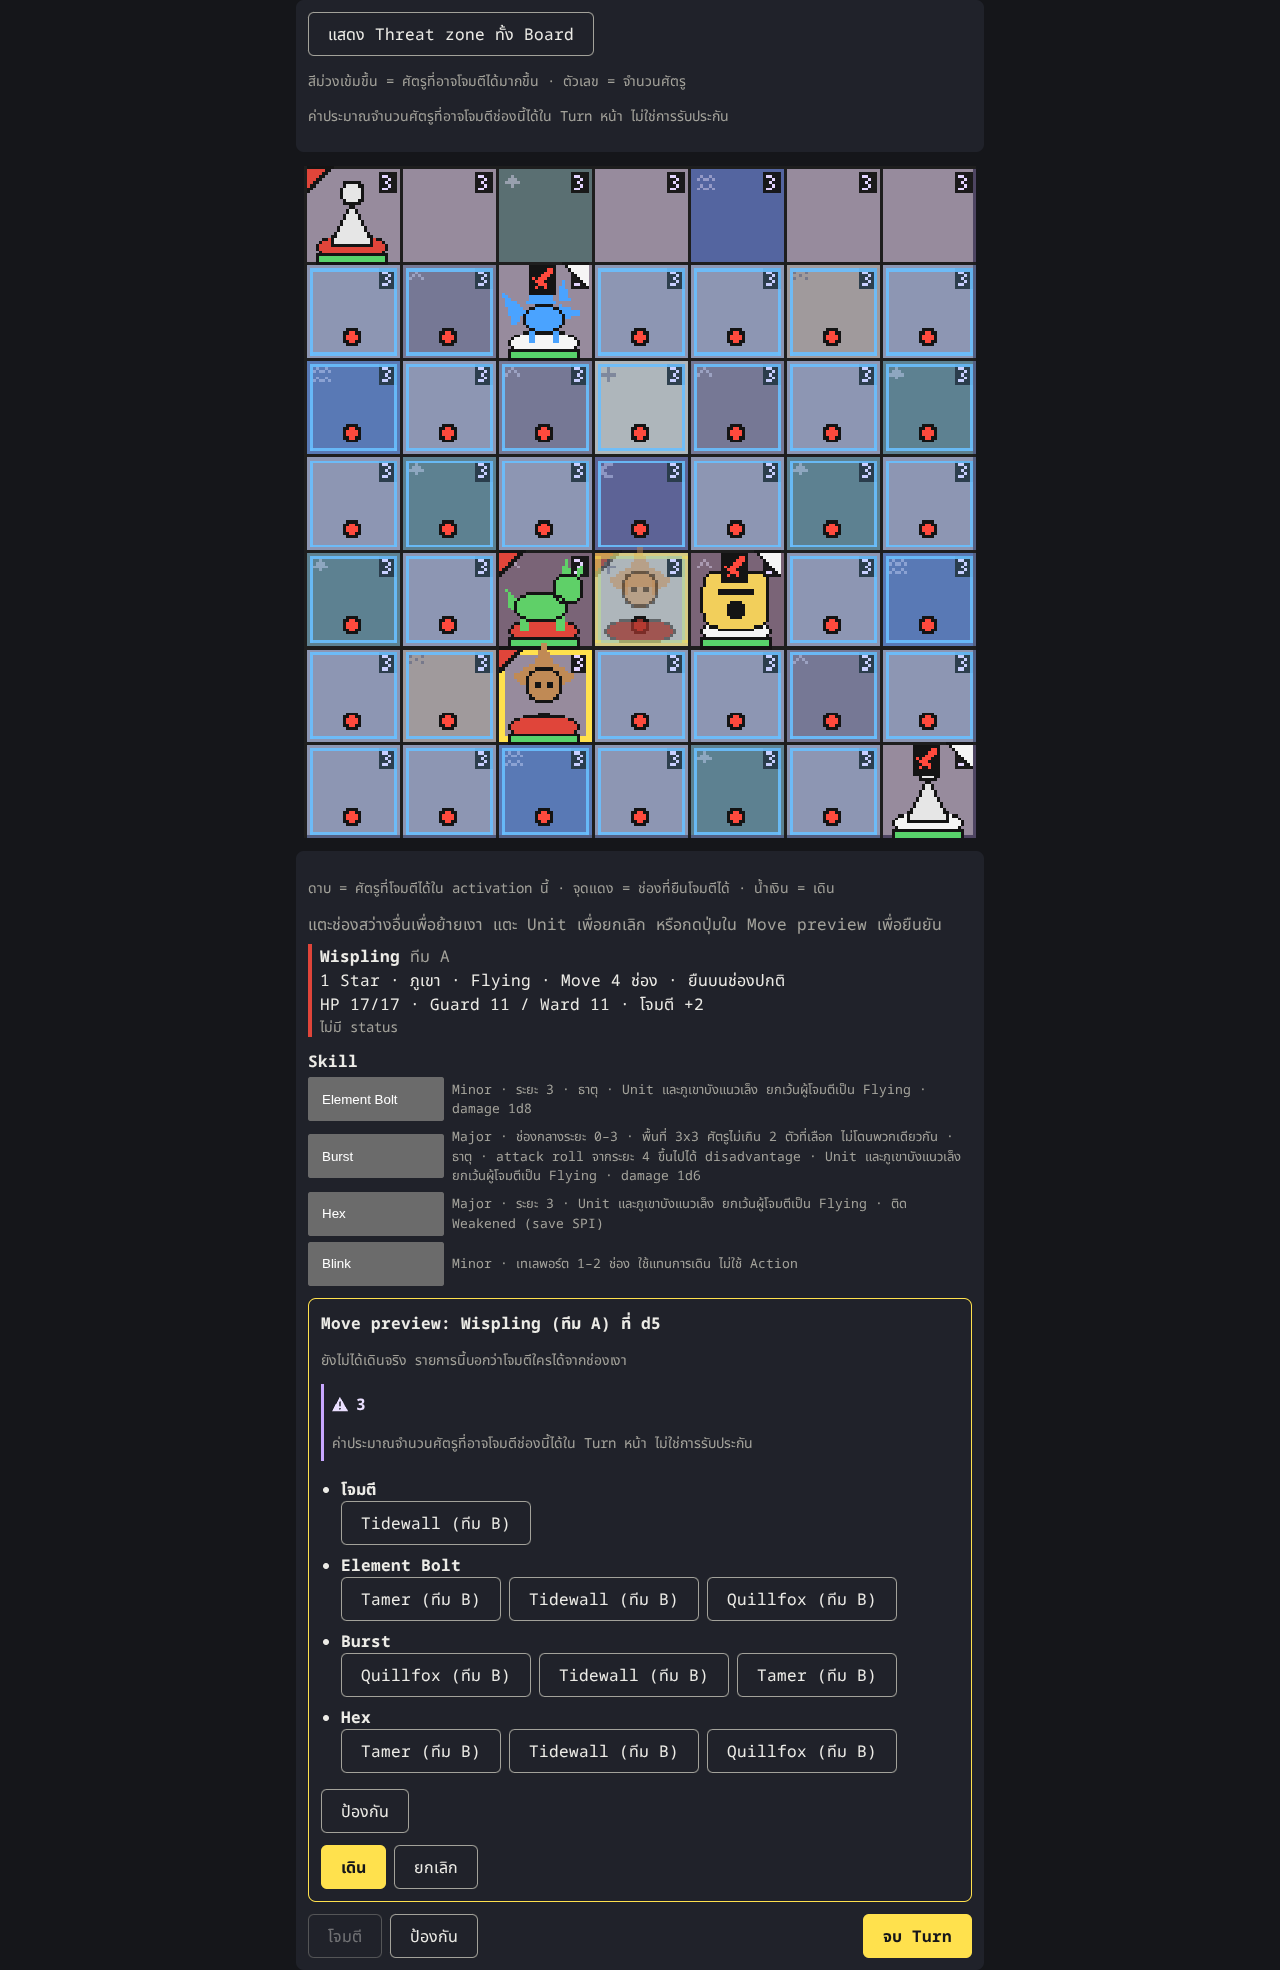
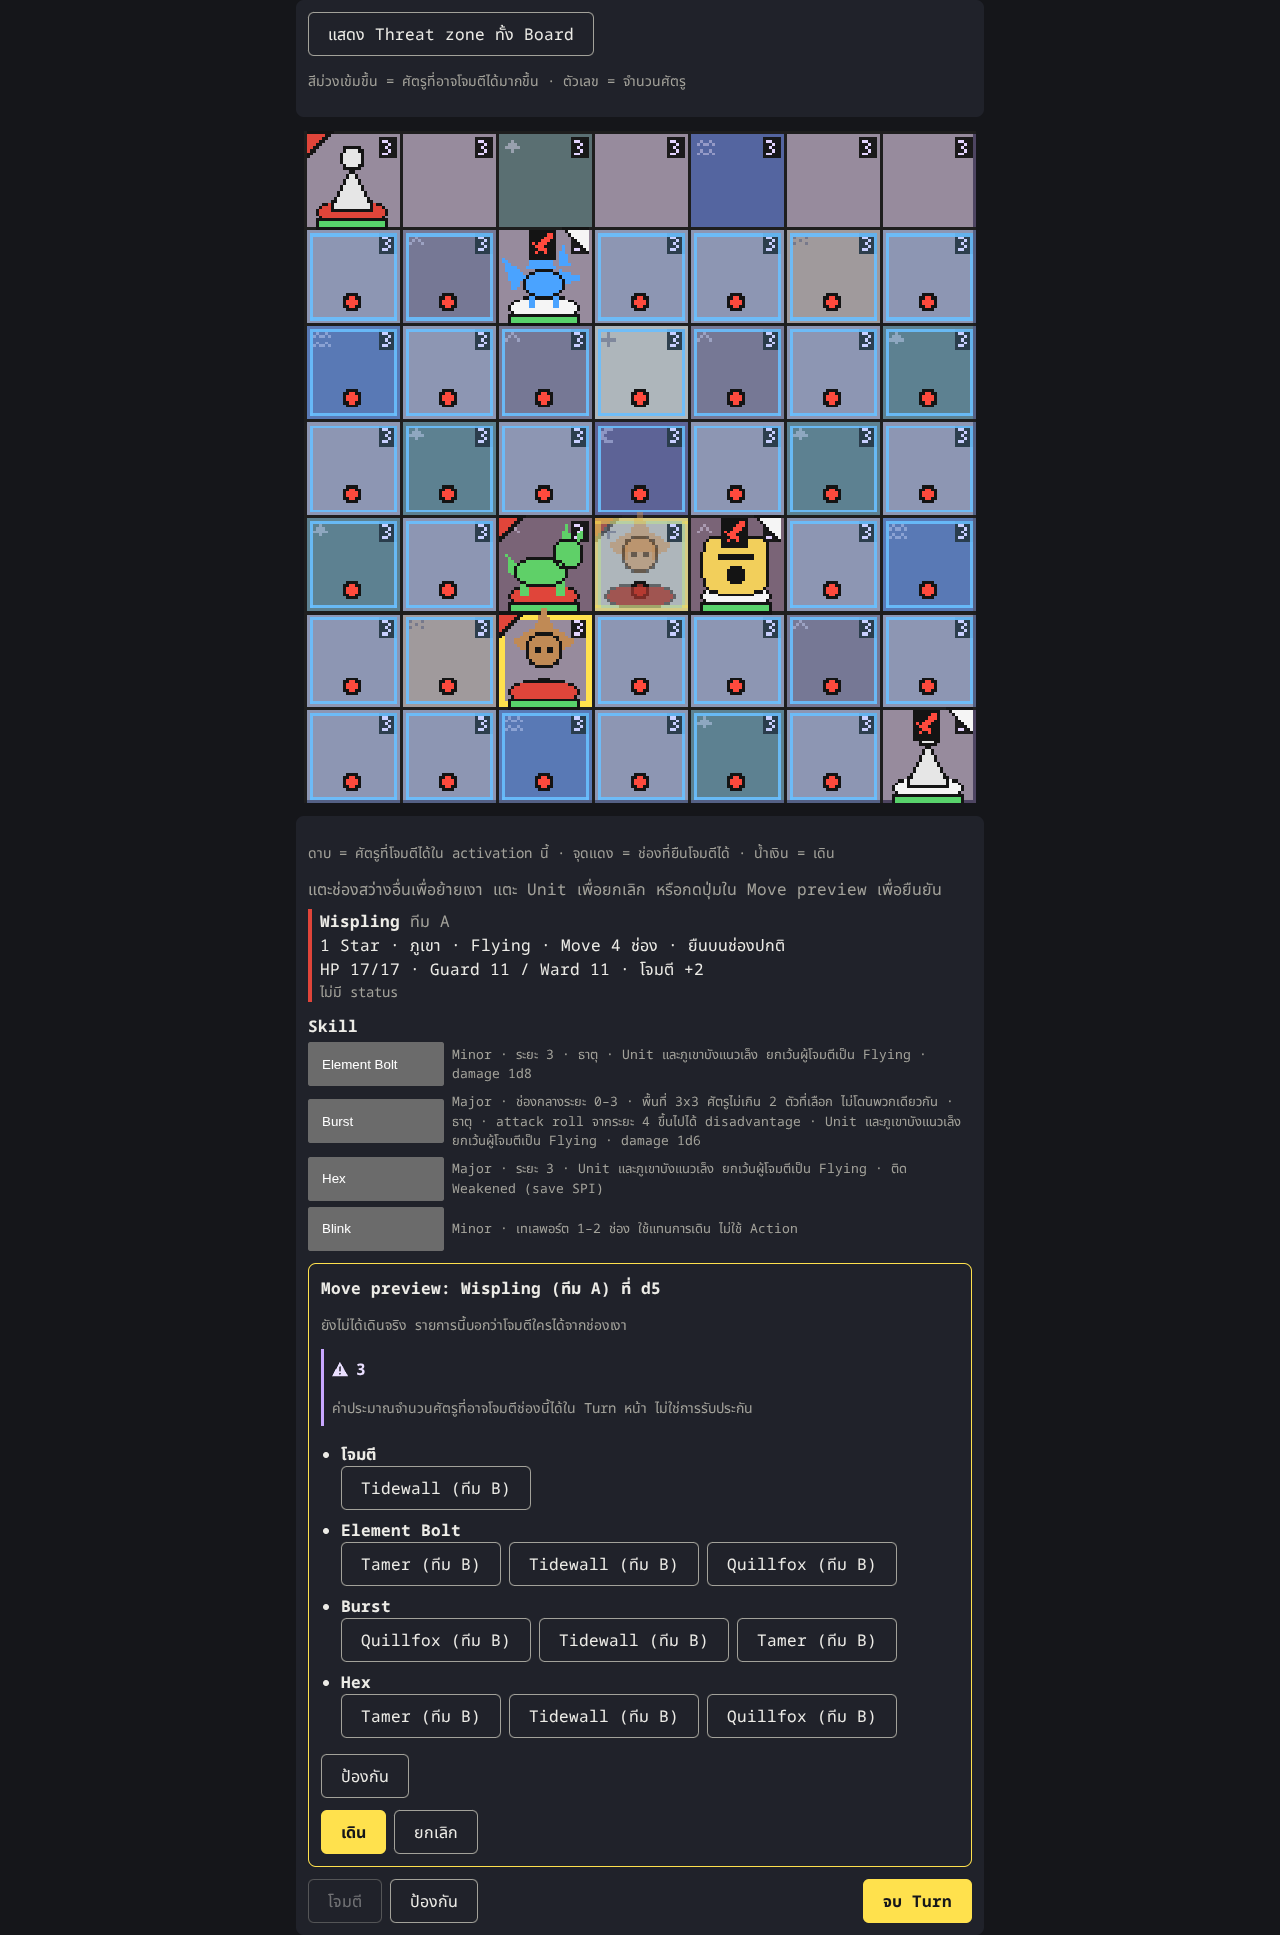
[P1X-12] Revalidate live toggle and refresh review evidence

diff --git a/packages/web/visual/threat-zone.visual.ts b/packages/web/visual/threat-zone.visual.ts
@@ -11,6 +11,7 @@ for (const width of [1280, 360]) {
     await expect(page.locator('canvas')).toBeVisible()
     const toggle = page.getByRole('button', { name: th.threatZone.toggle })
     await expect(toggle).toHaveAttribute('aria-pressed', 'false')
+    await expect(page.getByText(th.threatZone.boardEstimate, { exact: true })).toHaveCount(1)
     const before = await page.evaluate(() => {
       const s = window.threatSession
       const tile = s.getSnapshot().reachable[0]!
@@ -20,6 +21,7 @@ for (const width of [1280, 360]) {
     })
     await expect(page.locator('.threat-value')).toHaveAttribute('aria-label', th.threatZone.count(before.threat!))
     await expect(page.locator('.threat-count')).toContainText(th.threatZone.estimate)
+    await expect(page.getByText(th.threatZone.boardEstimate, { exact: true })).toHaveCount(0)
     const canvas = await page.locator('canvas').elementHandle()
     await expect(page.getByText(th.threatZone.estimate, { exact: true })).toHaveCount(1)
     const plain = await page.locator('canvas').screenshot()
@@ -32,6 +34,7 @@ for (const width of [1280, 360]) {
     await expect(page.locator('canvas')).toHaveScreenshot(`threat-zone-${width}.png`)
     await test.info().attach(`threat-zone-${width}`, { body: await page.screenshot({ fullPage: true }), contentType: 'image/png' })
     await toggle.click()
+    expect(await canvas!.evaluate(element => element === document.querySelector('canvas'))).toBe(true)
     const restored = await page.locator('canvas').screenshot()
     expect(restored.equals(plain)).toBe(true)
     expect(await page.evaluate(() => {

diff --git a/packages/web/visual/threat-zone.ts b/packages/web/visual/threat-zone.ts
@@ -38,7 +38,7 @@ function Review() {
   const snapshot = useSyncExternalStore(session.subscribe, session.getSnapshot)
   return createElement('main', { className: 'battle' },
     createElement(StartUnitDialog, { confirmation, data }),
-    createElement(ThreatZoneToggle, { visible, previewOpen: snapshot.movePreview !== null, onChange: setVisible }),
+    createElement(ThreatZoneToggle, { visible, previewOpen: snapshot.plan === null && snapshot.movePreview !== null, onChange: setVisible }),
     createElement(BattleView, { session, showThreatZone: visible }),
     createElement(TurnPanel, { key: snapshot.revision, snapshot, session, data }),
   )

diff --git a/packages/web/src/BattleScreen.tsx b/packages/web/src/BattleScreen.tsx
@@ -75,7 +75,7 @@ export function BattleScreen({ data, session: sourceSession, diceSeed, onPlayAga
 
       <UndoControls snapshot={snapshot} onUndo={onUndo} />
       {state.phase === 'play' && state.outcome === null && snapshot.screen === 'board' && (
-        <ThreatZoneToggle previewOpen={snapshot.movePreview !== null} visible={showThreatZone} onChange={setShowThreatZone} />
+        <ThreatZoneToggle previewOpen={snapshot.plan === null && snapshot.movePreview !== null} visible={showThreatZone} onChange={setShowThreatZone} />
       )}
       <BattleView session={session} showThreatZone={showThreatZone} />
       <TerrainLegend />

diff --git a/.scratch/phase-1x-playtest-feedback/evidence/12-threat-zone-ui/README.md b/.scratch/phase-1x-playtest-feedback/evidence/12-threat-zone-ui/README.md
@@ -1,16 +1,11 @@
 # P1X-12 Threat zone
 
-Move preview reads `preview.threat` directly from session. Zero uses muted styling; positive counts use a purple accent. The accompanying text describes the count as an estimate, not a guarantee.
+- [1280 px desktop](threat-zone-1280.png) · [360 px mobile](threat-zone-360.png)
 
-The full-Board overlay starts off. It shades threatened tiles purple and prints the session count in each cell. Movement and targeting highlights are drawn above it, Units remain visible, and Action plan swords/dots retain their separate red colour. Toggling changes only the Board presentation. Browser tests verify that switching it off restores the original canvas exactly and leaves actions, revision, reachable tiles and preview unchanged.
+Move preview reads the session count directly, with zero muted and positive counts in purple. Its explanation refers to the previewed tile. Without a visible Move preview, the whole-Board toggle explains the estimate for each tile; with a preview, that explanation appears only in the preview. Player text remains in the web string table, and the warning uses a deterministic vector icon with an accessible count label.
 
-- [1280 px desktop](threat-zone-1280.png)
-- [360 px mobile](threat-zone-360.png)
+The overlay starts off. Toggling sends display options to the live Phaser scene and redraws only the threat layer, preserving the canvas, Unit views, tweens and animation completion. Browser tests retain the same canvas through both toggle directions, verify exact Board restoration and unchanged session state, and toggle during a real walk to verify the same tween survives and reaches its destination.
 
-The final branch includes P1X-30 (#59), P1X-07 (#60) and P1X-24 (#61) to resolve overlapping UI and baseline changes before handoff. Merge those PRs first. The final captures and baselines include the combined features; all 19 Board-only images remain unchanged.
+Shared palette digit patterns serve both threat counts and target-order badges; overlay colours live in the palette. Removed the unused title and the three orphan Action plan evidence PNGs. Only these two Threat zone captures remain, refreshed from the passing final run and inspected at desktop/mobile widths. Purple counts, blue movement borders and red swords/dots remain distinct.
 
-Standalone validation: typecheck, 1,029 tests passed / 1 skipped, build, check-replays, 29/29 pinned Chromium visual comparisons. Combined typecheck, 1,035 tests passed / 1 skipped, build and check-replays passed. Baseline refresh passed 36/36 on the pinned Linux Chromium build 1234. Inspected all eight updated baseline PNGs and both full-page captures; the red swords/dots, blue movement borders and purple count marks remain distinct. The final comparison and CI are recorded in the PR. The local visual server used port 4184 while other ticket suites ran on separate ports. No gameplay rules or session contracts changed.
-
-The count warning uses an inline vector icon with the string-table count as its accessible label, avoiding the host emoji font. After this refinement, typecheck, build and all 70 web tests passed; the eight affected browser cases passed during baseline refresh.
-
-Final validation after the vector icon change: 36/36 local visual comparisons passed; all three CI jobs passed (run 39209076655), confirming identical screenshots across the local and CI environments.
+Includes updated PR #61 and main c1474cb; merge #61 first. Frozen install, typecheck, 1,051 tests passed / 1 skipped, build, path ownership and replay validation passed. All 37 pinned Linux Chromium visual cases passed with no baseline changes for these review corrections. The 16 fixture data hashes refreshed in #61 match current main; every other replay field is unchanged. Final CI status is recorded in the PR.

diff --git a/.scratch/phase-1x-playtest-feedback/issues/p1x-12-threat-zone-ui.md b/.scratch/phase-1x-playtest-feedback/issues/p1x-12-threat-zone-ui.md
@@ -16,7 +16,7 @@
 
 ## Implementation
 
-- Move preview displays the session count with muted zero and an explicit estimate explanation. The overlay starts off, uses purple shading and numeric counts from session, and preserves movement highlights.
-- Integrated P1X-07 and P1X-24 to resolve overlapping UI and baseline changes. Purple Threat zone remains distinct from blue movement and red Action plan markers. Merge PR #59, #60 and #61 first.
-- [Inspected desktop/mobile evidence](../evidence/12-threat-zone-ui/README.md). Combined typecheck, 1,035 tests passed (1 skipped), build and check-replays pass. Pinned Chromium baseline refresh passed 36/36; the final comparison and CI are recorded in the PR.
-- Final vector-warning refinement passed all 36 local visual comparisons and all three CI jobs, including actual screenshot comparisons (run 39209076655). All acceptance criteria are complete.
+- Session counts drive the preview and optional purple Board overlay. The estimate appears once, with tile-specific wording in a visible preview or Board-wide wording beside the toggle.
+- The live scene redraws its threat layer without recreating the Phaser game; real-browser tests verify canvas identity, state preservation, exact restoration, and completion of a running walk.
+- Shared palette digits/colours replace duplicated rendering constants. Removed the unused title and three orphan evidence images.
+- Includes updated P1X-24 (#61) and main c1474cb. Merge #61 first. [Inspected desktop/mobile evidence and verification](../evidence/12-threat-zone-ui/README.md): 1,051 tests passed / 1 skipped, all 37 pinned Chromium comparisons passed, plus frozen install, typecheck, build, path ownership and replay validation. Final CI status is recorded in the PR.
